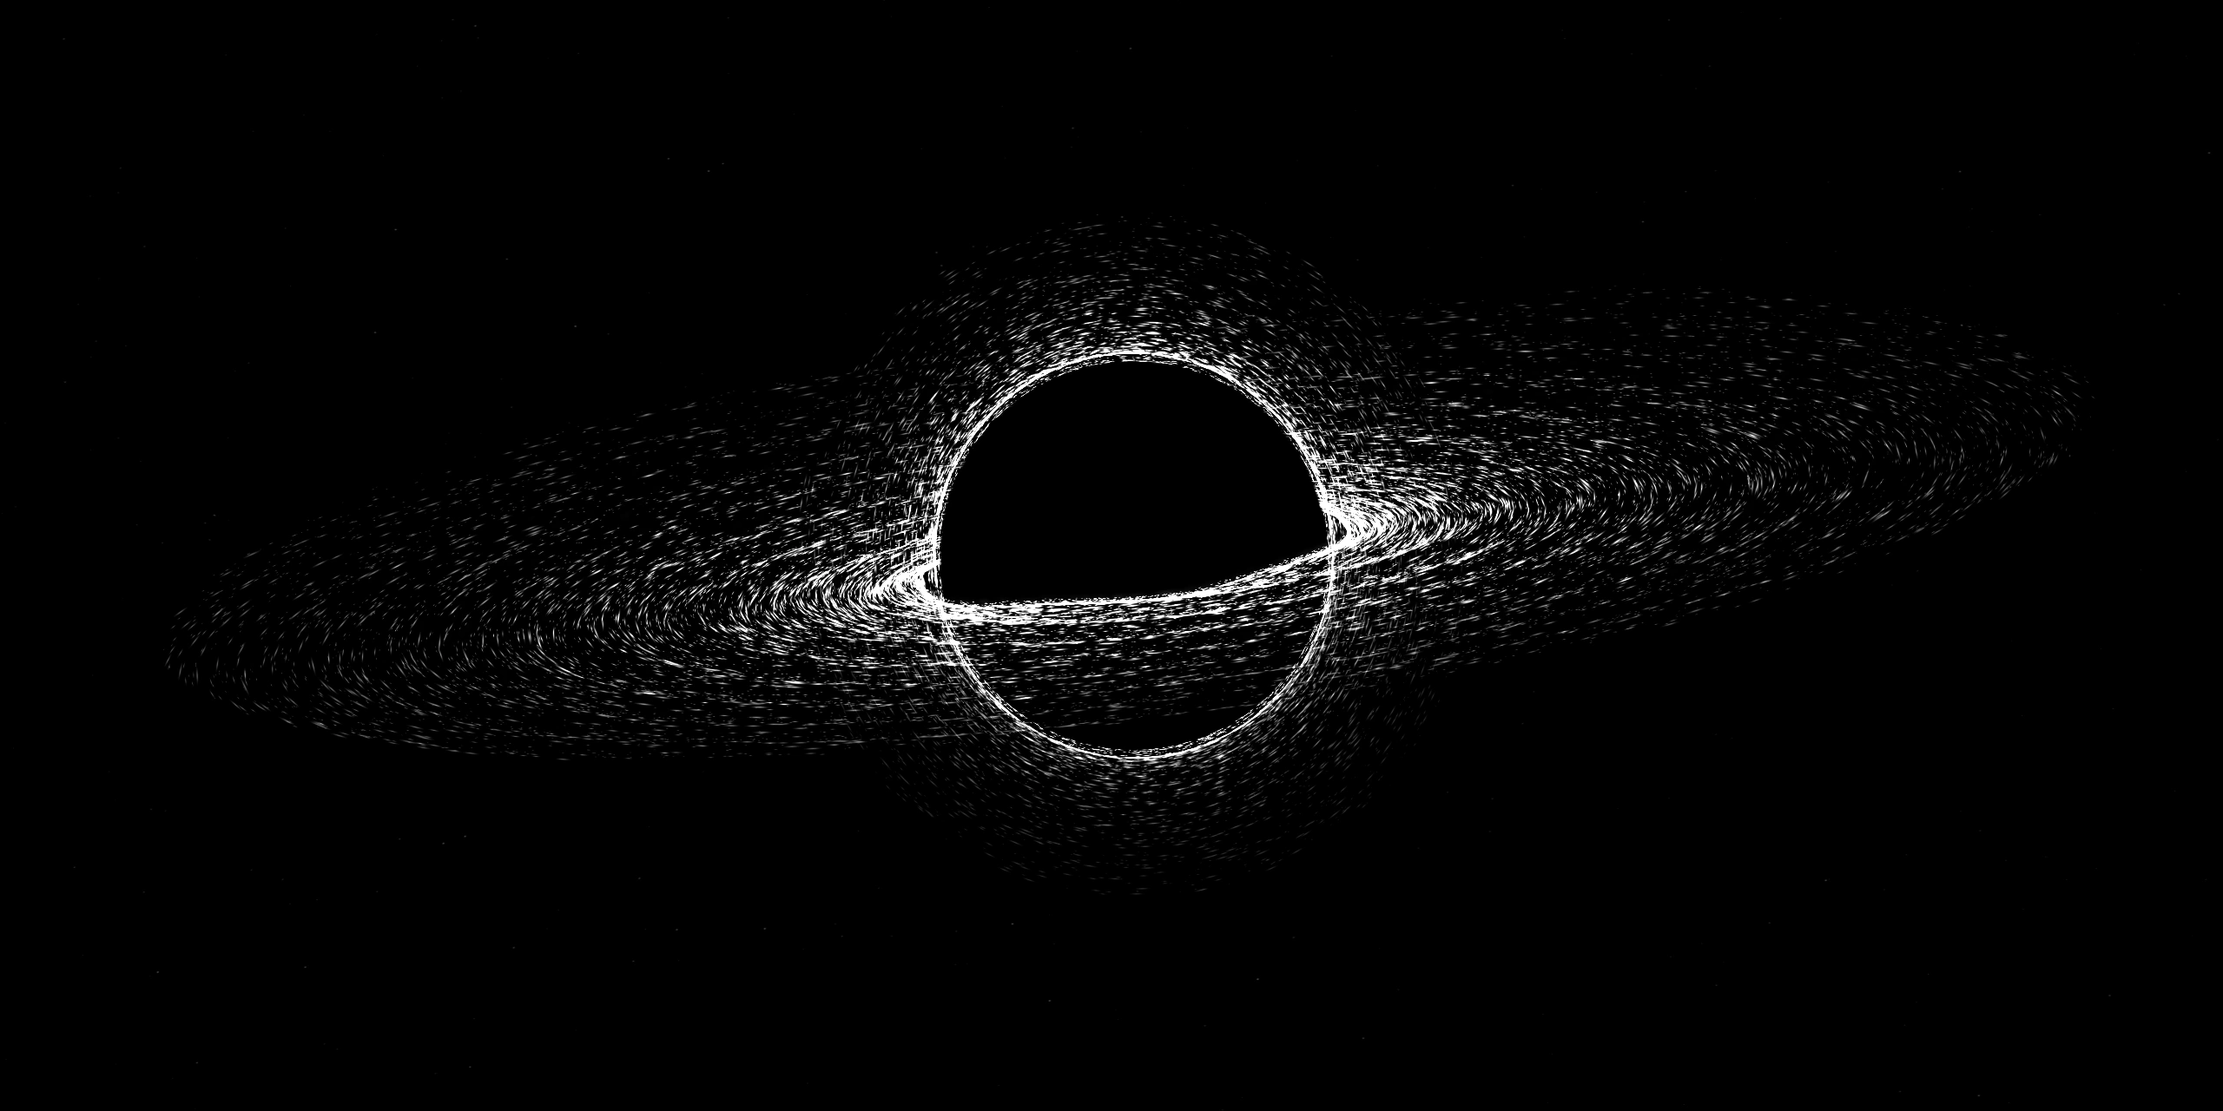
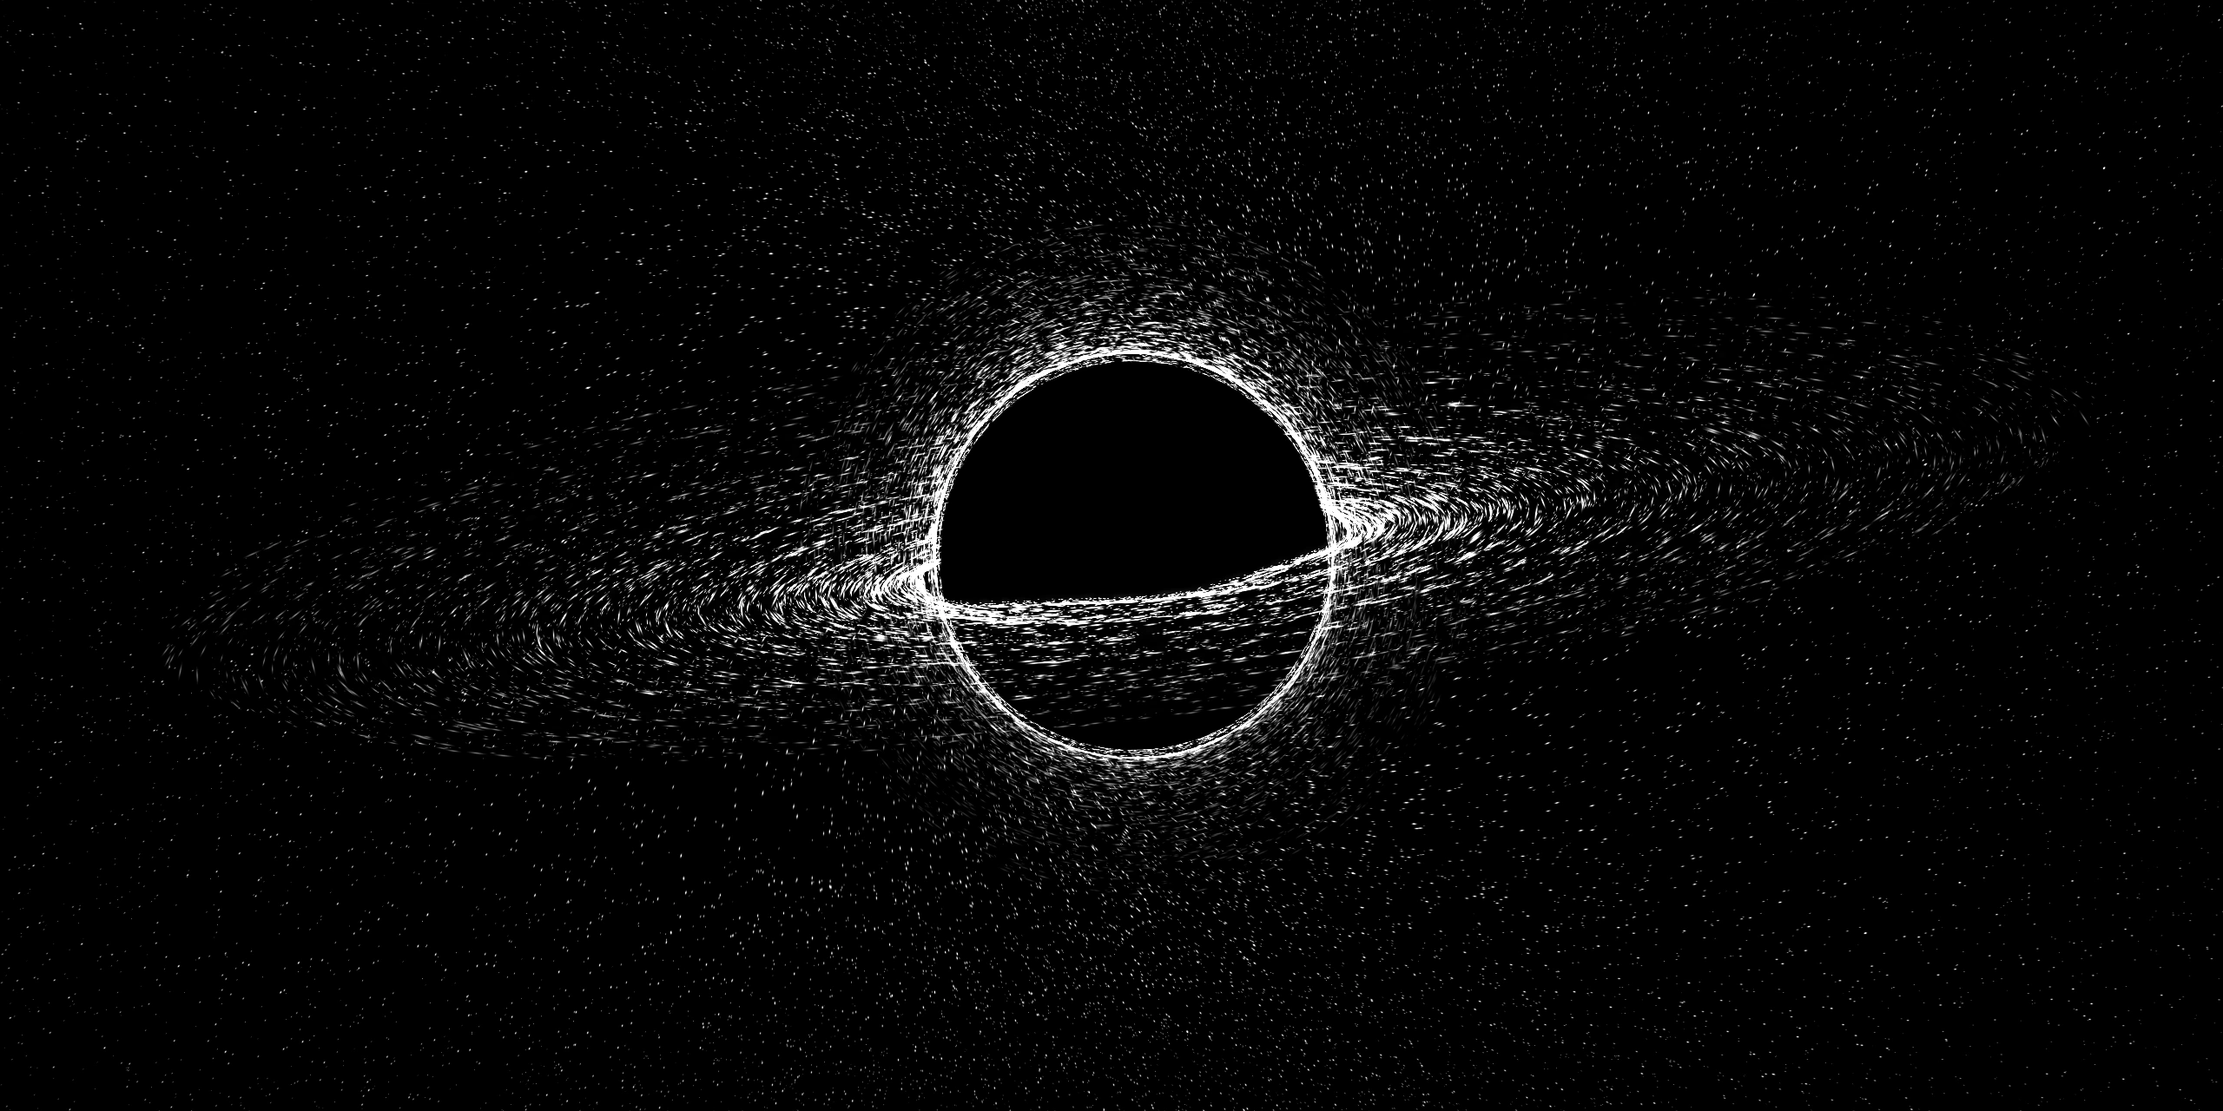
feat: add full-screen infalling particles and local fluid cursor wakes

Changed region(s): [[0.1562, 0.2188, 0.8438, 0.75]]

diff --git a/shell/qml/Singlr/Ui/SingularityWallpaper.qml b/shell/qml/Singlr/Ui/SingularityWallpaper.qml
@@ -10,7 +10,8 @@ Singularity {
     onAnimatingChanged: console.info("Singlr Singularidad:", animating ? "animación activa" : "animación pausada")
     quality: Appearance.wallpaperQuality
     reactive: Appearance.wallpaperReactive
-    pointer: hover.hovered ? Qt.point(hover.point.position.x / Math.max(1, effect.width), hover.point.position.y / Math.max(1, effect.height)) : Qt.point(.5, .5)
+    pointerActive: hover.hovered
+    pointer: Qt.point(hover.point.position.x / Math.max(1, effect.width), hover.point.position.y / Math.max(1, effect.height))
     // Passive desktop hover only: no mouse grab, keyboard focus or global tracking.
     HoverHandler { id: hover; enabled: effect.reactive }
 }

diff --git a/tests/shell/tst_SingularityGpu.qml b/tests/shell/tst_SingularityGpu.qml
@@ -29,6 +29,9 @@ Item {
             wait(100); verify(loader.item.elapsed > 0);
             mouseMove(wall, 850, 100); wait(50);
             verify(loader.item.pointer.x > .8);
+            compare(loader.item.pointerActive, true);
+            mouseMove(fixture, 999, 639);
+            // The item also exposes pointerActive for the native local-wake model.
             Appearance.wallpaperAnimated = false;
             compare(loader.active, false); compare(loader.item, null);
             tryCompare(findChild(wall, "singularityStill"), "status", Image.Ready);

diff --git a/session/appearance/singularity.cpp b/session/appearance/singularity.cpp
@@ -38,14 +38,18 @@ public:
     QSGMaterialShader *createShader(QSGRendererInterface::RenderMode) const override { return new Shader; }
     // Distinct uniforms per output: never merge different surfaces into one draw.
     int compare(const QSGMaterial *other) const override { return this == other ? 0 : std::less<const QSGMaterial *>{}(this, other) ? -1 : 1; }
-    float time = 0, width = 1, height = 1, pointerX = .5, pointerY = .5, density = 1;
+    float time = 0, width = 1, height = 1, density = 1;
+    std::array<float, 16 * 4> wakes{}, pushes{};
 };
 bool Shader::updateUniformData(RenderState &s, QSGMaterial *material, QSGMaterial *) {
     auto *m = static_cast<Material *>(material);
     auto *data = s.uniformData();
     if (s.isMatrixDirty()) std::memcpy(data->data(), s.combinedMatrix().constData(), 64);
-    const float values[] = {s.opacity(), m->time, m->width, m->height, m->pointerX, m->pointerY, m->density};
+    const float values[] = {s.opacity(), m->time, m->width, m->height, 0.f, 0.f, m->density, 0.f};
+    Q_ASSERT(data->size() >= 608);
     std::memcpy(data->data() + 64, values, sizeof(values));
+    std::memcpy(data->data() + 96, m->wakes.data(), sizeof(m->wakes));
+    std::memcpy(data->data() + 352, m->pushes.data(), sizeof(m->pushes));
     return true;
 }
 struct Vertex { float x, y, radius, phase, seed, kind; };
@@ -58,7 +62,7 @@ public:
             QSGGeometry::Attribute::create(1, 4, QSGGeometry::FloatType)
         };
         static const QSGGeometry::AttributeSet set{2, sizeof(Vertex), attributes};
-        const int count = level == 0 ? 18000 : level == 2 ? 64000 : 36000;
+        const int count = level == 0 ? 26000 : level == 2 ? 90000 : 52000;
         auto *g = new QSGGeometry(set, count * 6);
         g->setDrawingMode(QSGGeometry::DrawTriangles);
         g->setVertexDataPattern(QSGGeometry::StaticPattern);
@@ -73,7 +77,7 @@ public:
         }
         setGeometry(g); setFlag(OwnsGeometry);
         auto *m = new Material;
-        m->density = 36000.f / float(count);
+        m->density = 52000.f / float(count);
         setMaterial(m); setFlag(OwnsMaterial);
     }
 };
@@ -85,10 +89,7 @@ Singularity::Singularity(QQuickItem *parent) : QQuickItem(parent) {
     m_timer.setTimerType(Qt::PreciseTimer);
     connect(&m_timer, &QTimer::timeout, this, [this] {
         const float dt = std::min(float(m_clock.restart()) / 1000.f, .1f);
-        m_time += dt;
-        const QPointF target = m_reactive ? m_target : QPointF(.5, .5);
-        m_pointer += (target - m_pointer) * (1.f - std::exp(-dt * 3.f));
-        update(); emit elapsedChanged();
+        advanceFrame(dt);
     });
     connect(this, &QQuickItem::windowChanged, this, &Singularity::attachWindow);
     connect(this, &QQuickItem::visibleChanged, this, &Singularity::syncTimer);
@@ -114,6 +115,22 @@ Singularity::Singularity(QQuickItem *parent) : QQuickItem(parent) {
         connect(qGuiApp, &QGuiApplication::screenRemoved, this, [this](QScreen *screen) { m_screenOff.remove(screen); syncTimer(); });
     }
     attachWindow(window());
+}
+void Singularity::advanceFrame(float dt) {
+    m_time += dt;
+    // Only a tiny cursor history runs on the CPU. Every particle stays on the GPU.
+    if (m_reactive && m_pointerActive && m_pointerDirty && m_time - m_lastWake >= .06) {
+        const qreal interval = std::clamp(m_time - m_lastWake, .03, .15);
+        QPointF velocity = (m_target - m_lastPointer) / interval;
+        const qreal length = std::hypot(velocity.x(), velocity.y());
+        if (length > 2.) velocity *= 2. / length;
+        m_wakes[m_nextWake] = {m_target, velocity, m_time};
+        m_nextWake = (m_nextWake + 1) % WakeCount;
+        m_lastWake = m_time;
+        m_lastPointer = m_target;
+        m_pointerDirty = false;
+    }
+    update(); emit elapsedChanged();
 }
 void Singularity::attachWindow(QQuickWindow *window) {
     if (m_window) { m_window->removeEventFilter(this); disconnect(m_window, nullptr, this, nullptr); }
@@ -144,9 +161,23 @@ void Singularity::setSleeping(bool value) { m_sleeping = value; syncTimer(); }
 void Singularity::setPointer(QPointF value) {
     if (!std::isfinite(value.x()) || !std::isfinite(value.y())) return;
     value = QPointF(std::clamp(value.x(), 0., 1.), std::clamp(value.y(), 0., 1.));
-    if (m_target == value) return; m_target = value; emit pointerChanged();
+    if (m_target == value) return; m_target = value;
+    if (m_pointerActive) m_pointerDirty = true;
+    emit pointerChanged();
 }
-void Singularity::setReactive(bool value) { if (m_reactive == value) return; m_reactive = value; emit reactiveChanged(); }
+void Singularity::setPointerActive(bool value) {
+    if (m_pointerActive == value) return;
+    m_pointerActive = value;
+    m_pointerDirty = value;
+    if (value) m_lastPointer = m_target; // Re-entry must not create a cross-screen impulse.
+    emit pointerActiveChanged();
+}
+void Singularity::setReactive(bool value) {
+    if (m_reactive == value) return;
+    m_reactive = value;
+    if (!value) { m_wakes = {}; update(); }
+    emit reactiveChanged();
+}
 void Singularity::setQuality(int value) {
     value = std::clamp(value, 0, 2); if (m_quality == value) return;
     m_quality = value; update(); emit qualityChanged();
@@ -160,7 +191,16 @@ QSGNode *Singularity::updatePaintNode(QSGNode *old, UpdatePaintNodeData *) {
     if (!node) node = new ParticleNode(m_quality);
     auto *m = static_cast<Material *>(node->material());
     m->time = m_time; m->width = width(); m->height = height();
-    m->pointerX = m_pointer.x(); m->pointerY = m_pointer.y();
+    for (int i = 0; i < WakeCount; ++i) {
+        const auto &wake = m_wakes[i];
+        const float age = std::max(0., m_time - wake.born);
+        // Damped return with a faint overshoot, gone in ~1.5 seconds.
+        const float strength = m_reactive && age < 2. ? .55f * std::exp(-age * 4.f) * std::cos(age * 3.f) : 0.f;
+        const int at = i * 4;
+        m->wakes[at] = wake.position.x(); m->wakes[at + 1] = wake.position.y();
+        m->wakes[at + 2] = strength; m->wakes[at + 3] = age;
+        m->pushes[at] = wake.velocity.x(); m->pushes[at + 1] = wake.velocity.y();
+    }
     node->markDirty(QSGNode::DirtyMaterial);
     return node;
 }

diff --git a/tests/shell/singularity.cpp b/tests/shell/singularity.cpp
@@ -6,6 +6,53 @@
 class SingularityTest : public QObject {
     Q_OBJECT
 private slots:
+    void fullFieldAndLocalWake() {
+        QQuickWindow window;
+        window.setColor(Qt::black); window.resize(1000, 640);
+        auto *effect = new Singularity(window.contentItem());
+        effect->setSize(QSizeF(1000, 640));
+        window.show(); QVERIFY(QTest::qWaitForWindowExposed(&window));
+        auto capture = [&] { effect->update(); QTest::qWait(35); return window.grabWindow(); };
+        effect->m_time = 2.;
+        const QImage base = capture(); QVERIFY(!base.isNull());
+        // Every part of the output has actual rendered particles, not just the disk.
+        for (int row = 0; row < 4; ++row) for (int col = 0; col < 6; ++col) {
+            int lit = 0;
+            for (int y = row * 160; y < (row + 1) * 160; ++y)
+                for (int x = col * 166; x < (col + 1) * 166; ++x)
+                    if (qRed(base.pixel(x, y)) > 6) ++lit;
+            QVERIFY2(lit > 12, qPrintable(QString("tile %1,%2: %3").arg(col).arg(row).arg(lit)));
+        }
+        effect->setPointer(QPointF(.22, .20));
+        QCOMPARE(capture(), base); // No hover: never repel around an invented center.
+        effect->m_wakes[0] = {QPointF(.22, .20), QPointF(.3, .1), 2.};
+        const QImage disturbed = capture();
+        QVERIFY(disturbed.copy(100, 20, 260, 240) != base.copy(100, 20, 260, 240));
+        QCOMPARE(disturbed.copy(500, 0, 500, 640), base.copy(500, 0, 500, 640));
+        QCOMPARE(disturbed.copy(0, 320, 1000, 320), base.copy(0, 320, 1000, 320));
+        const QString captureDir = qEnvironmentVariable("SINGLR_CAPTURE_DIR");
+        if (!captureDir.isEmpty()) {
+            QVERIFY(base.save(captureDir + "/flow-base.png"));
+            QVERIFY(disturbed.save(captureDir + "/flow-local-wake.png"));
+        }
+        effect->m_wakes[0].born = -.1; // >2 s: fully restored at exactly the same orbit time.
+        QCOMPARE(capture(), base);
+        effect->m_wakes[0].born = 2.;
+        effect->setReactive(false);
+        QCOMPARE(capture(), base);
+        effect->setReactive(true);
+        effect->setPointerActive(true);
+        effect->advanceFrame(.1f);
+        const qreal born = effect->m_wakes[0].born;
+        QVERIFY(born > 2.);
+        for (int i = 0; i < 25; ++i) effect->advanceFrame(.1f);
+        QCOMPARE(effect->m_wakes[0].born, born); // A stationary cursor creates no new impulses.
+        QVERIFY(effect->m_time - born > 2.);
+        effect->setPointerActive(false);
+        effect->m_time = 5.;
+        const QImage later = capture();
+        QVERIFY(later.copy(0, 0, 300, 200) != base.copy(0, 0, 300, 200));
+    }
     void lifecycleAndRendering() {
         QQuickWindow window;
         window.setColor(Qt::black); window.resize(1000, 640);

diff --git a/session/appearance/singularity.h b/session/appearance/singularity.h
@@ -5,6 +5,7 @@
 #include <QPointer>
 #include <QScreen>
 #include <QHash>
+#include <array>
 #include <QtQml/qqmlregistration.h>
 
 // A single immutable particle batch. Only uniforms change while animated.
@@ -14,6 +15,7 @@ class Singularity : public QQuickItem {
     Q_PROPERTY(bool running READ running WRITE setRunning NOTIFY runningChanged)
     Q_PROPERTY(bool animating READ animating NOTIFY animatingChanged)
     Q_PROPERTY(QPointF pointer READ pointer WRITE setPointer NOTIFY pointerChanged)
+    Q_PROPERTY(bool pointerActive READ pointerActive WRITE setPointerActive NOTIFY pointerActiveChanged)
     Q_PROPERTY(bool reactive READ reactive WRITE setReactive NOTIFY reactiveChanged)
     Q_PROPERTY(int quality READ quality WRITE setQuality NOTIFY qualityChanged)
     Q_PROPERTY(qreal elapsed READ elapsed NOTIFY elapsedChanged)
@@ -22,17 +24,20 @@ public:
     bool running() const { return m_running; }
     bool animating() const { return m_timer.isActive(); }
     QPointF pointer() const { return m_target; }
+    bool pointerActive() const { return m_pointerActive; }
     bool reactive() const { return m_reactive; }
     int quality() const { return m_quality; }
     qreal elapsed() const { return m_time; }
     void setRunning(bool value);
     void setPointer(QPointF value);
     void setReactive(bool value);
+    void setPointerActive(bool value);
     void setQuality(int value);
 signals:
     void runningChanged();
     void animatingChanged();
     void pointerChanged();
+    void pointerActiveChanged();
     void reactiveChanged();
     void qualityChanged();
     void elapsedChanged();
@@ -43,13 +48,21 @@ private slots:
     void setLocked(bool value);
     void setSleeping(bool value);
 private:
+    friend class SingularityTest;
+    static constexpr int WakeCount = 16;
+    struct Wake { QPointF position, velocity; qreal born = -100; };
+    void advanceFrame(float dt);
     void syncTimer();
     void attachWindow(QQuickWindow *window);
     QTimer m_timer;
     QElapsedTimer m_clock;
     QPointer<QQuickWindow> m_window;
     QHash<QScreen *, bool> m_screenOff;
-    QPointF m_target{.5, .5}, m_pointer{.5, .5};
+    QPointF m_target{.5, .5}, m_lastPointer{.5, .5};
+    std::array<Wake, WakeCount> m_wakes{};
+    int m_nextWake = 0;
+    qreal m_lastWake = -100;
+    bool m_pointerActive = false, m_pointerDirty = false;
     qreal m_time = 0;
     bool m_running = false, m_reactive = true, m_locked = false, m_sleeping = false;
     int m_quality = 1;

diff --git a/docs/handoffs/T268-particle-flow.md b/docs/handoffs/T268-particle-flow.md
@@ -1,0 +1,75 @@
+# T268 — Partículas de pantalla completa y perturbación local
+
+Encargo explícito del creador, 26 oct 2026, tras aceptar el funcionamiento de
+T267: partículas por todo el fondo que converjan hacia el agujero negro; cursor
+que aparte solo las cercanas y les permita volver a su sitio, como agua.
+
+## Resultado
+
+- Campo de partículas distribuido hasta las esquinas de cada salida. Trayectorias
+  procedurales en espiral hacia el horizonte; vidas escalonadas y reciclaje con
+  entrada/salida atenuadas. El disco y los arcos conservan su forma central.
+- Eliminado el paralaje: el puntero no traslada ni rota la cámara. Centro y
+  silueta permanecen fijos. La oclusión se calcula tras la perturbación.
+- Dieciséis impulsos locales guardan posición/velocidad del paso del cursor.
+  El shader aplica repulsión y un pequeño remolino de soporte compacto; fuera
+  de la zona de influencia la posición permanece exactamente igual.
+- Los impulsos se amortiguan, con leve sobrepaso, y caducan en dos segundos.
+  Un cursor quieto no genera impulsos nuevos; tampoco una posición inventada
+  en el centro cuando el puntero no está sobre el escritorio.
+- Se conserva el hover pasivo y local de Wayland, sin capturar clics ni seguir
+  el ratón sobre otras aplicaciones. Reacción desactivada elimina las estelas.
+- Lote único: 26 000 / 52 000 / 90 000 partículas. Solo 16 impulsos/uniformes
+  se actualizan en CPU; las partículas siguen calculándose en GPU, máximo 30 fps.
+  Los impulsos caducados omiten el trabajo de deformación en el shader.
+- Fotograma estático actualizado con nuestro propio renderizado a 2560×1280.
+  Se mantienen pausa/descarga, excepción local de reducir movimiento y opciones.
+
+## Comprobaciones
+
+Compilación nativa/QSB en `.local/build-singularity`, Qt 6.12.0 y KF6/Plasma
+6.31.0/6.8.1. OpenGL real offscreen en Radeon 610M, Mesa 26.2.5.
+
+- 4 resultados nativos + 3 QML normal + 3 QML con reducir movimiento y excepción
+  local: 0 fallos. [Resumen](../../tests/shell/evidence/t268/verification.txt).
+- Cobertura comprobada en una cuadrícula 6×4 de toda la salida a 1000×640.
+- La imagen evoluciona también fuera del disco central.
+- Comparación con el mismo tiempo orbital: la zona del cursor cambia y la mitad
+  lejana queda idéntica píxel a píxel. Al caducar la estela o desactivar reacción
+  se recupera exactamente la imagen base. Cursor quieto no renueva impulsos.
+- Se conservaron pruebas de temporizador, bloqueo/sueño simulado, visibilidad,
+  descarga, reacción local y excepción a reducir movimiento.
+- qmllint con el módulo nuevo y `git diff --check`, sin avisos/errores.
+
+Fotogramas nativos de la misma órbita:
+[base](../../tests/shell/evidence/t268/flow-base.png),
+[perturbación local](../../tests/shell/evidence/t268/flow-local-wake.png).
+La revisión visual del creador queda pendiente; estas imágenes no la sustituyen.
+
+### Recursos
+
+[Muestra](../../tests/shell/evidence/t268/flow-resources.json), mismo método que
+T267: proceso qmlscene aislado, 1920×1080, cuatro fases de 4 s y muestras de 2 s,
+CPU como porcentaje de un núcleo, PSS de `/proc`:
+
+| Escenario | CPU | PSS |
+| --- | --- | --- |
+| Sin efecto | 0 % | 26 970 KiB |
+| Flujo equilibrado sin cursor | 1,0 % | 55 112 KiB |
+| Flujo con cursor en movimiento | 1,5 % | 57 983 KiB |
+| Tras descarga | 0 % | 50 679 KiB |
+
+Qt/controlador conservan cachés tras destruir el lote. Son muestras breves,
+no certificación de consumo total del shell. Los contadores GPU por proceso no
+estuvieron disponibles (`null`); no se midieron GPU ni batería. Siguen pendientes
+otra GPU, múltiples pantallas y aceptación de DPMS/suspensión física.
+
+## Aplicación
+
+Se actualizó el módulo del canal de desarrollo con reemplazo atómico,
+preservando los inodos de bibliotecas cargadas en
+`.local/singularity/dev-module-before-flow`, y se cargó reiniciando únicamente el
+shell de Singlr. La unidad quedó activa y el registro confirmó «animación activa».
+El SHA-256 de kdeglobals permanece idéntico. Las aplicaciones y las preferencias
+globales de animación se conservan. El paquete instalado requiere la actualización habitual;
+no se ejecuta pacman ni sudo en esta tarea.

diff --git a/docs/decisions.md b/docs/decisions.md
@@ -217,3 +217,12 @@ Singularidad, manteniendo las demás animaciones desactivadas». Se añade
 solo en este fondo». La excepción se ha activado en su equipo por este encargo;
 no modifica `kdeglobals`. Sin excepción, el fondo sigue respetando reducir
 movimiento y muestra el motivo junto a sus controles, con Movimiento inactivo.
+
+### P-031 — campo completo y cursor local (explícita, 26 oct 2026)
+
+El creador pide partículas aleatorias por todo el fondo que converjan en el
+agujero negro. La reacción del cursor debe dispersar únicamente las partículas
+cercanas, con fluidez y retorno, como pasar la mano por agua. Se retira el
+paralaje de cámara; centro y composición permanecen fijos. Solución derivada:
+órbitas de entrada procedurales y 16 impulsos locales de duración limitada,
+con amortiguación y un leve sobrepaso. [Entrega T268](handoffs/T268-particle-flow.md).

diff --git a/docs/status.md b/docs/status.md
@@ -138,6 +138,11 @@ Activado en sesión real el 26 oct 11:00, con excepción local autorizada a redu
 movimiento (kdeglobals conservado). Pendientes valoración visual y aceptación de DPMS,
 bloqueo/suspensión físicos y multimonitor. [Entrega](handoffs/T267-singularity-wallpaper.md).
 
+T268: Singularidad amplía las partículas a toda la pantalla, con trayectorias
+hacia el horizonte. El cursor produce una perturbación local que se amortigua;
+retirado el movimiento global de cámara. Pruebas gráficas verifican cobertura,
+movimiento exterior, invariancia lejos del cursor y recuperación. [Entrega](handoffs/T268-particle-flow.md).
+
 ## Siguientes cierres necesarios
 
 1. Aceptación visual y nativa del dock corregido: touchpad, DND, autohide y espacio reservado en distintas salidas.
